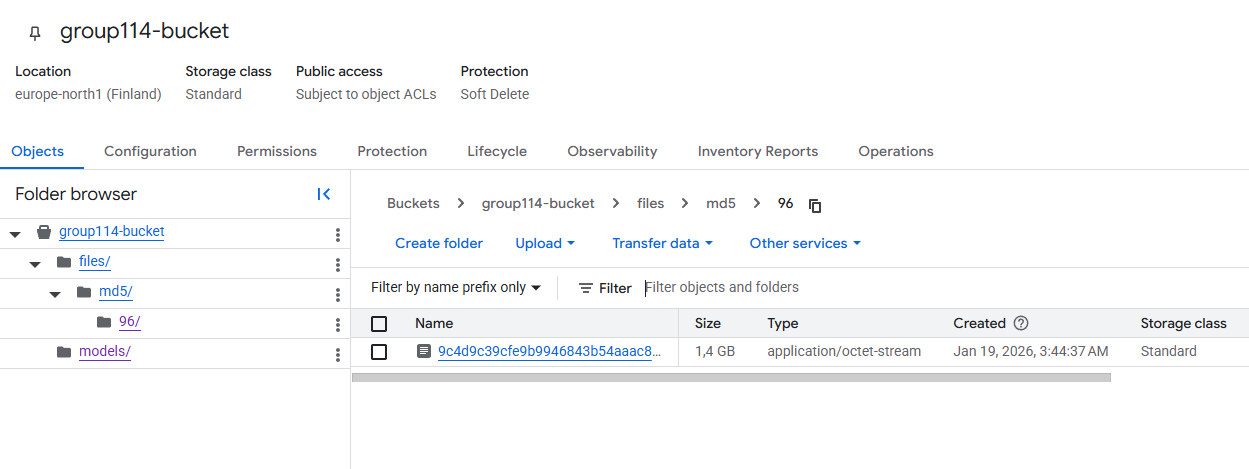
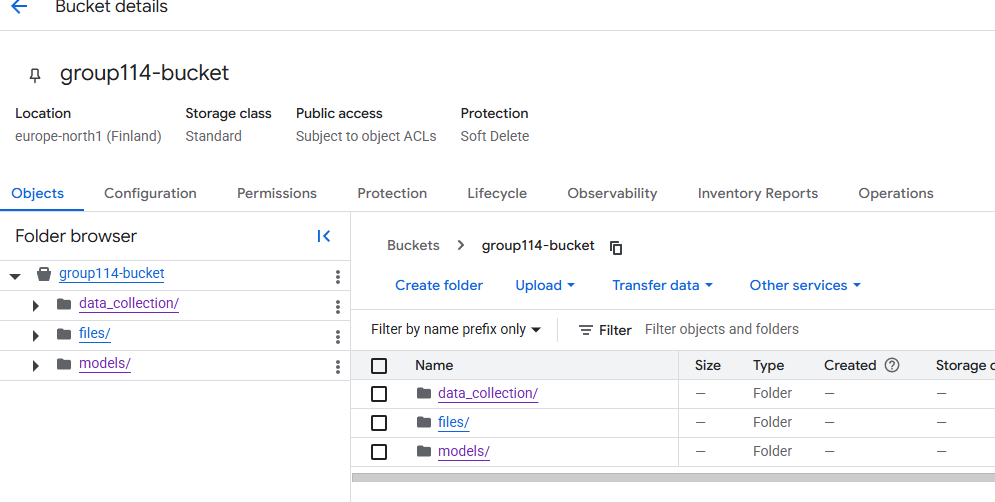
Work on README

diff --git a/reports/README.md b/reports/README.md
@@ -102,8 +102,8 @@ will check the repositories and the code to verify your answers.
 * [ ] Deploy to the cloud a drift detection API (M27)
 * [ ] Instrument your API with a couple of system metrics (M28)
 * [ ] Setup cloud monitoring of your instrumented application (M28)
-* [ ] Create one or more alert systems in GCP to alert you if your app is not behaving correctly (M28)
-* [ ] If applicable, optimize the performance of your data loading using distributed data loading (M29)
+* [X] Create one or more alert systems in GCP to alert you if your app is not behaving correctly (M28)
+* [X] If applicable, optimize the performance of your data loading using distributed data loading (M29)
 * [ ] If applicable, optimize the performance of your training pipeline by using distributed training (M30)
 * [X] Play around with quantization, compilation and pruning for you trained models to increase inference speed (M31)
 
@@ -550,7 +550,7 @@ Yes, we implemented a monitoring system to ensure the longevity and reliability 
 >
 > Answer:
 
-Our project was focused towards deploying an AI application that a user could interact with. Of course, no everyone is comfortable using APIs directly, so instead we created a user-friendly frontend using Streamlit, and customized it with html generated with the help of [Google Stitch](https://stitch.withgoogle.com/), which created a minimalistic but modern design. This html was then integrated into our Streamlit app with the help of the html() function and a frontend_utils.py file. The frontend simply takes a user image input, sends it to the backend API for inference and returns the prediction which is the displayed to the user. Feel free to [try it out](https://frontend-582302018737.europe-west1.run.app/) (The backend might take a minute to start after the first input is given).
+Our project was focused towards deploying an AI application that a user could interact with. Of course, no everyone is comfortable using APIs directly, so instead we created a user-friendly frontend using Streamlit, and customized it with html generated with the help of [Google Stitch](https://stitch.withgoogle.com/), which created a minimalistic but modern design. This html was then integrated into our Streamlit app with the help of the html() function and a frontend_utils.py file. The frontend simply takes a user image input, sends it to the backend API for inference and returns the prediction which is the displayed to the user. Feel free to [try it out](https://frontend-582302018737.europe-west1.run.app/) (The backend, BentoML, might take a minute to start after the first input is given).
 
 ### Question 29
 
@@ -567,7 +567,13 @@ Our project was focused towards deploying an AI application that a user could in
 >
 > Answer:
 
---- question 29 fill here ---
+![Cloud build history](figures/SystemArchitecture.png)
+
+The starting point of our architecture is our local development environments, where we collaboratively develop and test our code using GitHub for version control. Each team member works on feature branches, and changes are merged into the main branch via pull requests, triggering our CI/CD pipelines. We implemented Hydra for training configuration, WandB for experiment tracking, pre-commit hooks for checking code quality before commits, and DVC for data versioning.
+
+When code is pushed to the main branch, GitHub Actions automatically initiates a series of workflows. First, our CI pipeline runs linting and unit tests to ensure code quality and correctness, as well as generate a data drift report. In the case where changes are detected in the frontend/ or bento_backend/ directories found in src/mlopsproject/ on push to main, a CD pipeline is triggered that first checks what part of the application has changed (frontend, backend or both) and then builds, pushes and deploys the corresponding Docker images into GCP Cloud Run. For continuous ML, a webhook from WandB executes a GH workflow whenever a new model is registered, publishing a model report using CML. The Drift Check retrieves live data from our Google Cloud bucket. Currently, dummy data is used in the code. Then, Evidently AI compares the data to your original training data. This process detects significant shifts in data distribution and generates a "drift report" to alert you when the model becomes unreliable. 
+
+Once everything is deployed, our users can access our UI and upload dish images to receive predictions from our model in real-time. One can also start load test ing the frontend and backend using invoke tasks.
 
 ### Question 30
 
@@ -605,7 +611,9 @@ Our project was focused towards deploying an AI application that a user could in
 
 Student s252802 was in charge of setting up the initial project structure using Cookiecutter, managing the GitHub repository, and writing the Dockerfiles for train.Also, implemented the testing framework (including code coverage) and developed the data drift detection pipeline to monitor model performance
 
+Student s253814 firstly worked on setting up the team's GCP environment, configuring service accounts, requesting a GPU, and setting permissions. Incorporated Hydra on top of the initial training pipeline to manage hyperparameters and configurations following a dependency injection pattern. Also, designed and implemented the Frontend using Streamlit and integrated it with BentoML Backend API, together with their corresponding load testing scripts using Locust and a backend unittest using Pytest. Lastly, automated the build, pushing, and deployment of both Frontend and Backend (BentoML) using GCP Cloud and GitHub Actions only when specific files are changed on a push to main.
 
+All members...
 
 In preparing this work, we used large language models (LLMs), such as ChatGPT, to help with
 aspects of writing, coding, and creating a figures. Specifically, we used generative AI tools to paraphrase
